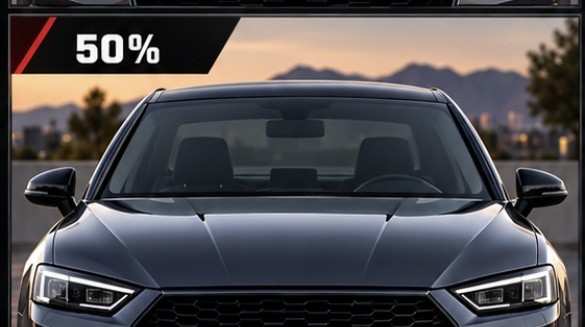
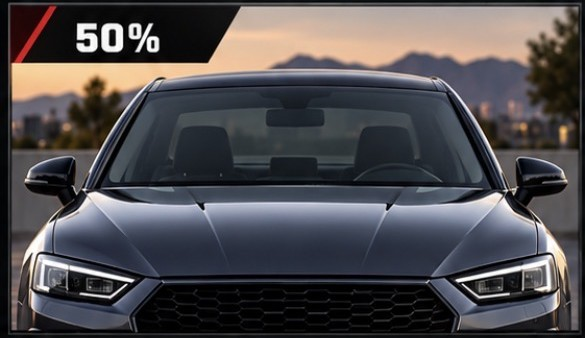
Fix review action and tint preview framing

diff --git a/public/app.js b/public/app.js
@@ -68,11 +68,11 @@ function updateNote(){const h=!!(project&&project.year&&project.make&&project.mo
 function setToggle(group,val){$$(`#${group} .seg`).forEach(x=>x.classList.toggle('active',x.dataset.value===val));const enabled=group==='wrapToggle'?val==='wrap':group==='tintToggle'?val==='apply':val==='replace';const control=$('#'+group.replace('Toggle','Controls'));control?.classList.toggle('enabled',enabled);updateSummaries()}
 function resetMods(save=true){if(!$('#wrapToggle'))return;setToggle('wrapToggle','none');setToggle('tintToggle','none');setToggle('wheelToggle','original');$$('.swatch-card').forEach((x,i)=>{x.classList.toggle('active',i===0);x.setAttribute('aria-pressed',i===0)});$('#customColorName').value='';$('#otherFinish').value='';$$('[data-finish]').forEach((x,i)=>x.classList.toggle('active',i===0));$$('#wheelFinishes .finish-chip').forEach((x,i)=>x.classList.toggle('active',i===0));$$('.wheel-option').forEach((x,i)=>x.classList.toggle('active',i===0));Object.keys(tintAreas).forEach(z=>tintState[z]='off');tintGrouping='all';activeTintTarget='all';renderTintZones();$('#calipers').checked=false;$('#caliperColorWrap').classList.add('hidden');$('#caliperColor').value='Red';$('#customCaliper').value='#c64139';syncCaliperPreview();$('#customWheel').value='';$('#customWheelWrap').classList.add('hidden');updateSummaries();if(save&&project)persist()}
 async function loadImage(file){if(file.size>10*1024*1024)throw Error(file.name+' exceeds 10 MB.');if(!file.type.startsWith('image/'))throw Error('Choose an image file.');let source=file;if(!['image/jpeg','image/png','image/webp'].includes(file.type)){if(!window.createImageBitmap)throw Error('This browser cannot read HEIC. Convert it to JPG and upload again.');try{const bitmap=await createImageBitmap(file);const c=document.createElement('canvas');const scale=Math.min(1,1800/Math.max(bitmap.width,bitmap.height));c.width=bitmap.width*scale;c.height=bitmap.height*scale;c.getContext('2d').drawImage(bitmap,0,0,c.width,c.height);return c.toDataURL('image/jpeg',.88)}catch{throw Error('Could not read this photo. Convert it to JPG and try again.')}}return await new Promise((resolve,reject)=>{const im=new Image(),url=URL.createObjectURL(source);im.onload=()=>{const scale=Math.min(1,1800/Math.max(im.width,im.height));const c=document.createElement('canvas');c.width=im.width*scale;c.height=im.height*scale;c.getContext('2d').drawImage(im,0,0,c.width,c.height);URL.revokeObjectURL(url);resolve(c.toDataURL('image/jpeg',.88))};im.onerror=()=>{URL.revokeObjectURL(url);reject(Error('Could not read this photo.'))};im.src=url})}
-function openBuildReview(variation=false){pendingVariation=variation;if(!project.year||!project.make||!project.model){notify('Enter the vehicle year, make, and model first.');return}const photo=getPhoto();$('#reviewImage').src=photo?.data||project.generatedRefs[activeAngle]||'/assets/demo-exterior.png';$('#reviewVehicleName').textContent=[project.year,project.make,project.model,project.trim].filter(Boolean).join(' ');$('#reviewProjectName').textContent=project.title||'Untitled project';const mods=selectedMods();$('#confirmGenerate').textContent=variation?'Create variation':'Generate preview';$('#reviewSummary').innerHTML=`<div class="review-row"><b>Vehicle</b><span>${safe($('#reviewVehicleName').textContent)}</span></div><div class="review-row"><b>Photo</b><span>${photo?'Customer photo · '+safe(angles[activeAngle]):'Model-based reference · no photo uploaded'}</span></div><div class="review-row"><b>Changes</b><span>${mods.length?mods.map(safe).join(' · '):'No modifications selected'}</span></div><div class="review-row"><b>Photos added</b><span>${Object.entries(angles).map(([key,label])=>{const n=(project.photos[key]||[]).length;return n?`${safe(label)} ${n}`:null}).filter(Boolean).join(' · ')||'None'}</span></div>`;$('#reviewModal').classList.remove('hidden')}
+function openBuildReview(variation=false){variation=Boolean(variation);pendingVariation=variation;if(!project.year||!project.make||!project.model){notify('Enter the vehicle year, make, and model first.');return}const photo=getPhoto();$('#reviewImage').src=photo?.data||project.generatedRefs[activeAngle]||'/assets/demo-exterior.png';$('#reviewVehicleName').textContent=[project.year,project.make,project.model,project.trim].filter(Boolean).join(' ');$('#reviewProjectName').textContent=project.title||'Untitled project';const mods=selectedMods();$('#confirmGenerate').textContent=variation?'Create variation':'Generate preview';$('#reviewSummary').innerHTML=`<div class="review-row"><b>Vehicle</b><span>${safe($('#reviewVehicleName').textContent)}</span></div><div class="review-row"><b>Photo</b><span>${photo?'Customer photo · '+safe(angles[activeAngle]):'Model-based reference · no photo uploaded'}</span></div><div class="review-row"><b>Changes</b><span>${mods.length?mods.map(safe).join(' · '):'No modifications selected'}</span></div><div class="review-row"><b>Photos added</b><span>${Object.entries(angles).map(([key,label])=>{const n=(project.photos[key]||[]).length;return n?`${safe(label)} ${n}`:null}).filter(Boolean).join(' · ')||'None'}</span></div>`;$('#reviewModal').classList.remove('hidden')}
 function summaryText(){const mods=selectedMods();return mods.join(' · ')||'No modifications selected'}
 async function generate(variation=false){if(!apiReady){notify('AI preview is not configured. The site owner must add OPENAI_API_KEY and CARSTUDIO_DEMO_CODE.');return}if(!project.year||!project.make||!project.model){notify('Enter year, make, and model first.');return}if(!accessCode){pendingAction='generate';$('#accessModal').classList.remove('hidden');$('#demoCode').focus();return}const source=getPhoto()?.data||null, base=source?null:project.generatedRefs[activeAngle]||null;const payload={year:project.year,make:project.make,model:project.model,trim:project.trim,angle:angles[activeAngle],image:source,baseImage:base,modifications:selectedMods(),variation};$('#generatingOverlay').classList.remove('hidden');$('#reviewBuild').disabled=true;try{const result=await request('/api/generate',{method:'POST',headers:{'content-type':'application/json','x-carstudio-demo-code':accessCode},body:JSON.stringify(payload)});if(!result.ok)throw Error(result.error||'Generation failed');if(result.generatedReference&&!source)project.generatedRefs[activeAngle]=result.originalImage;const ix=project.concepts.length+1;const concept={id:uuid(),title:conceptTitle(ix),angle:activeAngle,originalImage:result.originalImage,image:result.image,generatedReference:result.generatedReference||(!source&&!base),summary:summaryText(),created:Date.now()};project.concepts.unshift(concept);activeConcept=concept.id;await persist();renderAngles();renderConcepts();renderPreview();notify('Concept saved to this project')}catch(e){notify(e.message);$('#generationNote').textContent=e.message;if(e.message.includes('access code')){accessCode='';sessionStorage.removeItem('cs_code');pendingAction='generate';$('#accessModal').classList.remove('hidden')}}finally{$('#generatingOverlay').classList.add('hidden');$('#reviewBuild').disabled=false}}
 function conceptTitle(n){const mods=selectedMods();if(mods[0]){const s=mods[0].replace(' vehicle color wrap','').replace(' wheels','');return `Concept ${String.fromCharCode(64+Math.min(n,26))} · ${s}`}return 'Concept '+String.fromCharCode(64+Math.min(n,26))}
 function downloadCurrent(){const c=activeConcept&&project.concepts.find(x=>x.id===activeConcept);const src=c?.image||getPhoto()?.data||project.generatedRefs[activeAngle];if(!src){notify('Generate a concept or upload a photo first.');return}const a=document.createElement('a');a.href=src;a.download=`carstudio-${(project.title||vehicle()).toLowerCase().replace(/[^a-z0-9]+/g,'-')}-${c?'concept':'vehicle'}.png`;document.body.append(a);a.click();a.remove();notify('Download started')}
 function bind(){['newProject','emptyNew','topNew'].forEach(id=>$('#'+id).onclick=createProject);$('#topProjects').onclick=()=>switchView('dashboard');$('#backProjects').onclick=()=>{persist();renderDashboard();switchView('dashboard')};$('#projectSearch').oninput=renderDashboard;const showPhotoGuide=()=>$('#photoGuideModal').classList.remove('hidden'),hidePhotoGuide=()=>$('#photoGuideModal').classList.add('hidden');$('#photoHelp').onclick=showPhotoGuide;$('#uploadTrigger').onclick=showPhotoGuide;$('#closePhotoGuide').onclick=hidePhotoGuide;$('#closePhotoGuideSecondary').onclick=hidePhotoGuide;$('#photoGuideModal').onclick=e=>{if(e.target.id==='photoGuideModal')hidePhotoGuide()};$('#continuePhotoUpload').onclick=()=>{hidePhotoGuide();$('#photoInput').click()};$('#photoInput').onchange=async e=>{const files=[...e.target.files];for(const f of files){try{const data=await loadImage(f);project.photos[activeAngle]??=[];const p={id:uuid(),name:f.name,data};project.photos[activeAngle].push(p);if(!activePhoto)activePhoto=p.id}catch(err){notify(err.message)}}e.target.value='';await persist();renderAngles();renderPhotoThumbs();renderPhotoSelectors();renderPreview();};$$('.angle-btn').forEach(b=>b.onclick=()=>{activeAngle=b.dataset.angle;activePhoto=null;activeConcept=null;renderAngles();renderPhotoThumbs();renderPhotoSelectors();renderPreview();updateNote()});
-for(const [group,field] of [['wrapToggle','data-value'],['tintToggle','data-value'],['wheelToggle','data-value']])$$('#'+group+' .seg').forEach(b=>b.onclick=()=>setToggle(group,b.dataset.value));$('#colorSwatches')&&swatches();$$('#finishRow .finish-chip').forEach(b=>b.onclick=()=>{$$('#finishRow .finish-chip').forEach(x=>x.classList.remove('active'));b.classList.add('active');updateSummaries()});$$('#wheelFinishes .finish-chip').forEach(b=>b.onclick=()=>{$$('#wheelFinishes .finish-chip').forEach(x=>x.classList.remove('active'));b.classList.add('active');$('#customWheelWrap').classList.toggle('hidden',b.dataset.value!=='Custom');updateSummaries()});renderWheelStyles();renderTintZones();syncCaliperPreview();$$('#tintGrouping [data-group]').forEach(b=>b.onclick=()=>setTintGrouping(b.dataset.group));$('#calipers').onchange=()=>{$('#caliperColorWrap').classList.toggle('hidden',!$('#calipers').checked);syncCaliperPreview();updateSummaries()};$('#caliperColor').onchange=()=>{syncCaliperPreview();updateSummaries()};$('#customCaliper').oninput=()=>{syncCaliperPreview();updateSummaries()};$$('[data-mod]').forEach(x=>x.onchange=updateSummaries);['customColorName','customWheel','otherFinish'].forEach(id=>$('#'+id).oninput=updateSummaries);$('#customColor').oninput=()=>{$('#customColorName').value='Custom color';$$('.swatch-card').forEach(x=>{x.classList.remove('active');x.setAttribute('aria-pressed','false')});updateSummaries()};$('#resetConfig').onclick=()=>resetMods(true);$('#saveDraft').onclick=()=>persist().then(()=>notify('Project saved on this device'));$('#reviewBuild').onclick=openBuildReview;$('#closeReview').onclick=()=>$('#reviewModal').classList.add('hidden');$('#editBuild').onclick=()=>$('#reviewModal').classList.add('hidden');$('#reviewModal').onclick=e=>{if(e.target.id==='reviewModal')$('#reviewModal').classList.add('hidden')};$('#confirmGenerate').onclick=()=>{$('#reviewModal').classList.add('hidden');generate(pendingVariation)};$('#regenerate').onclick=()=>openBuildReview(false);$('#variation').onclick=()=>openBuildReview(true);$('#compareRange').oninput=applyCompare;$('#clearResult').onclick=()=>{activeConcept=null;renderPreview()};$('#downloadCurrent').onclick=downloadCurrent;$('#fullscreen').onclick=()=>{const c=activeConcept&&project.concepts.find(x=>x.id===activeConcept);$('#lightboxImg').src=c?.image||getPhoto()?.data||project.generatedRefs[activeAngle]||$('#originalImage').src;$('#lightbox').classList.remove('hidden')};$('#closeLightbox').onclick=()=>$('#lightbox').classList.add('hidden');$('#lightbox').onclick=e=>{if(e.target.id==='lightbox')$('#lightbox').classList.add('hidden')};$('#duplicateCurrent').onclick=()=>duplicateProject(project.id);$('#confirmCode').onclick=()=>{const code=$('#demoCode').value.trim();if(!code){$('#accessError').textContent='Enter the demo code.';return}accessCode=code;sessionStorage.setItem('cs_code',code);$('#accessModal').classList.add('hidden');$('#accessError').textContent='';generate(false)};$('#demoCode').onkeydown=e=>{if(e.key==='Enter')$('#confirmCode').click()};$('#closeModal').onclick=()=>$('#accessModal').classList.add('hidden');$('#accessModal').onclick=e=>{if(e.target.id==='accessModal')$('#accessModal').classList.add('hidden')};for(const id of ['projectTitle','year','make','model','trim'])$('#'+id).oninput=()=>{project[id]=$('#'+id).value;$('#editorTitle').textContent=project.title||'New project';$('#editorVehicleLine').textContent=vehicle();$('#previewVehicle').textContent=vehicle();updateNote();persist()};}
+for(const [group,field] of [['wrapToggle','data-value'],['tintToggle','data-value'],['wheelToggle','data-value']])$$('#'+group+' .seg').forEach(b=>b.onclick=()=>setToggle(group,b.dataset.value));$('#colorSwatches')&&swatches();$$('#finishRow .finish-chip').forEach(b=>b.onclick=()=>{$$('#finishRow .finish-chip').forEach(x=>x.classList.remove('active'));b.classList.add('active');updateSummaries()});$$('#wheelFinishes .finish-chip').forEach(b=>b.onclick=()=>{$$('#wheelFinishes .finish-chip').forEach(x=>x.classList.remove('active'));b.classList.add('active');$('#customWheelWrap').classList.toggle('hidden',b.dataset.value!=='Custom');updateSummaries()});renderWheelStyles();renderTintZones();syncCaliperPreview();$$('#tintGrouping [data-group]').forEach(b=>b.onclick=()=>setTintGrouping(b.dataset.group));$('#calipers').onchange=()=>{$('#caliperColorWrap').classList.toggle('hidden',!$('#calipers').checked);syncCaliperPreview();updateSummaries()};$('#caliperColor').onchange=()=>{syncCaliperPreview();updateSummaries()};$('#customCaliper').oninput=()=>{syncCaliperPreview();updateSummaries()};$$('[data-mod]').forEach(x=>x.onchange=updateSummaries);['customColorName','customWheel','otherFinish'].forEach(id=>$('#'+id).oninput=updateSummaries);$('#customColor').oninput=()=>{$('#customColorName').value='Custom color';$$('.swatch-card').forEach(x=>{x.classList.remove('active');x.setAttribute('aria-pressed','false')});updateSummaries()};$('#resetConfig').onclick=()=>resetMods(true);$('#saveDraft').onclick=()=>persist().then(()=>notify('Project saved on this device'));$('#reviewBuild').onclick=()=>openBuildReview(false);$('#closeReview').onclick=()=>$('#reviewModal').classList.add('hidden');$('#editBuild').onclick=()=>$('#reviewModal').classList.add('hidden');$('#reviewModal').onclick=e=>{if(e.target.id==='reviewModal')$('#reviewModal').classList.add('hidden')};$('#confirmGenerate').onclick=()=>{$('#reviewModal').classList.add('hidden');generate(pendingVariation)};$('#regenerate').onclick=()=>openBuildReview(false);$('#variation').onclick=()=>openBuildReview(true);$('#compareRange').oninput=applyCompare;$('#clearResult').onclick=()=>{activeConcept=null;renderPreview()};$('#downloadCurrent').onclick=downloadCurrent;$('#fullscreen').onclick=()=>{const c=activeConcept&&project.concepts.find(x=>x.id===activeConcept);$('#lightboxImg').src=c?.image||getPhoto()?.data||project.generatedRefs[activeAngle]||$('#originalImage').src;$('#lightbox').classList.remove('hidden')};$('#closeLightbox').onclick=()=>$('#lightbox').classList.add('hidden');$('#lightbox').onclick=e=>{if(e.target.id==='lightbox')$('#lightbox').classList.add('hidden')};$('#duplicateCurrent').onclick=()=>duplicateProject(project.id);$('#confirmCode').onclick=()=>{const code=$('#demoCode').value.trim();if(!code){$('#accessError').textContent='Enter the demo code.';return}accessCode=code;sessionStorage.setItem('cs_code',code);$('#accessModal').classList.add('hidden');$('#accessError').textContent='';generate(false)};$('#demoCode').onkeydown=e=>{if(e.key==='Enter')$('#confirmCode').click()};$('#closeModal').onclick=()=>$('#accessModal').classList.add('hidden');$('#accessModal').onclick=e=>{if(e.target.id==='accessModal')$('#accessModal').classList.add('hidden')};for(const id of ['projectTitle','year','make','model','trim'])$('#'+id).oninput=()=>{project[id]=$('#'+id).value;$('#editorTitle').textContent=project.title||'New project';$('#editorVehicleLine').textContent=vehicle();$('#previewVehicle').textContent=vehicle();updateNote();persist()};}
 (async()=>{try{db=await openDB();bind();renderDashboard();const h=await request('/api/health');apiReady=Boolean(h.aiConfigured&&h.accessConfigured);if(!apiReady)$('#generationNote').textContent='AI generation needs server credentials. Add OPENAI_API_KEY and CARSTUDIO_DEMO_CODE to enable live previews.'}catch(e){notify('Workspace storage is unavailable: '+e.message)}})();

diff --git a/public/styles.css b/public/styles.css
@@ -54,7 +54,7 @@ body{background:var(--bg);color:var(--text)}.topbar{background:rgba(255,255,255,
 .angle-count{border-radius:99px;padding:1px 4px;font-size:8px;font-weight:700;color:#60774f}
 .angle-btn:not(.has-photos) .angle-count{display:none}
 .tint-feature-image{position:relative;margin:10px 0 8px;border:1px solid #dce2dc;border-radius:14px;overflow:hidden;background:#f4f6f3;box-shadow:0 5px 18px #2222}
-.tint-feature-image img{display:block;width:100%;height:clamp(190px,34vw,300px);object-fit:cover;object-position:center 44%}
+.tint-feature-image img{display:block;width:100%;height:auto;max-height:330px;object-fit:contain;object-position:center;background:#edf0ed}
 .tint-feature-image figcaption{position:absolute;left:0;right:0;bottom:0;display:flex;align-items:center;justify-content:space-between;gap:9px;padding:11px 13px;background:linear-gradient(0deg,#121614e8,#12161400);color:#fff}
 .tint-feature-image figcaption b{font-size:19px;letter-spacing:-.025em;text-shadow:0 1px 4px #0008}
 .tint-feature-image figcaption small{max-width:65%;text-align:right;font-size:9px;line-height:1.25;color:#f0f2f0;text-shadow:0 1px 3px #000}
@@ -83,5 +83,5 @@ body{background:var(--bg);color:var(--text)}.topbar{background:rgba(255,255,255,
 .review-row>span{color:#29332d}
 .review-note{border-radius:9px;padding:10px;background:#f4f6f2;color:#6d776f;font-size:10px;line-height:1.4}
 .review-actions{display:flex;justify-content:flex-end;gap:8px;margin-top:14px}
-@media(max-width:740px){.swatch-card>span{height:48px}.swatch-card>b{font-size:10px}.tint-feature-image img{height:clamp(180px,54vw,270px)}.tint-shade{font-size:9px;padding:9px 2px}.review-dialog{padding:18px}}
+@media(max-width:740px){.swatch-card>span{height:48px}.swatch-card>b{font-size:10px}.tint-feature-image img{max-height:340px}.tint-shade{font-size:9px;padding:9px 2px}.review-dialog{padding:18px}}
 @media(max-width:420px){.swatch-grid{grid-template-columns:repeat(2,minmax(0,1fr))}.swatch-card>span{height:62px}.tint-shades{grid-template-columns:repeat(4,minmax(0,1fr))}.tint-feature-image figcaption b{font-size:17px}.tint-feature-image figcaption small{font-size:8px}.review-row{grid-template-columns:75px minmax(0,1fr)}}
